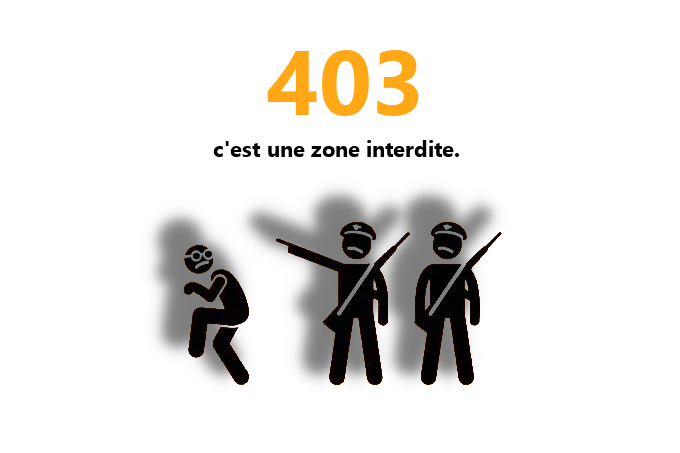
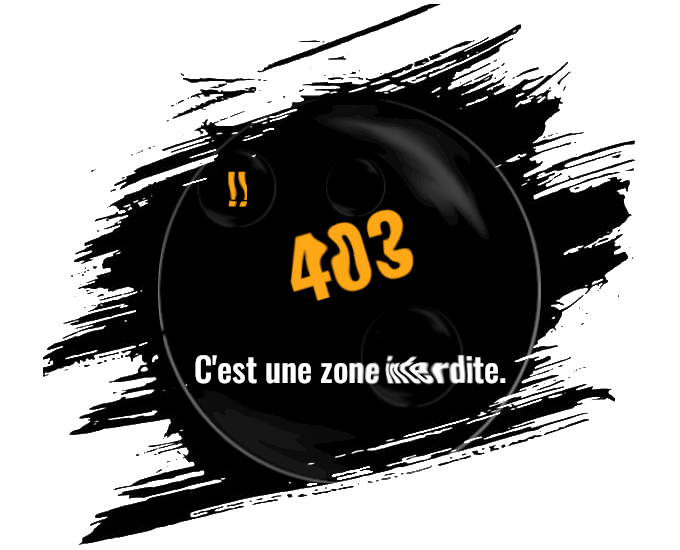
update the 403 and 404 template css and create the 500 method and template

diff --git a/vendor/composer/installed.php b/vendor/composer/installed.php
@@ -3,7 +3,7 @@
         'name' => '__root__',
         'pretty_version' => 'dev-main',
         'version' => 'dev-main',
-        'reference' => 'a12943e74150b8a72f97de6df2865b273d9858b5',
+        'reference' => '0e9d501e88d625df185c86831d70b9d1f68c93f7',
         'type' => 'library',
         'install_path' => __DIR__ . '/../../',
         'aliases' => array(),
@@ -13,7 +13,7 @@
         '__root__' => array(
             'pretty_version' => 'dev-main',
             'version' => 'dev-main',
-            'reference' => 'a12943e74150b8a72f97de6df2865b273d9858b5',
+            'reference' => '0e9d501e88d625df185c86831d70b9d1f68c93f7',
             'type' => 'library',
             'install_path' => __DIR__ . '/../../',
             'aliases' => array(),

diff --git a/src/Controller/ErrorController.php b/src/Controller/ErrorController.php
@@ -21,4 +21,11 @@ class ErrorController extends CoreController {
         $this->show('error/403');
         exit;
     }
+
+    public function eternalServerError()
+    {
+        // header('HTTP/1.0 403 Unauthorized');
+        $this->show('error/500');
+        exit;
+    }
 }
